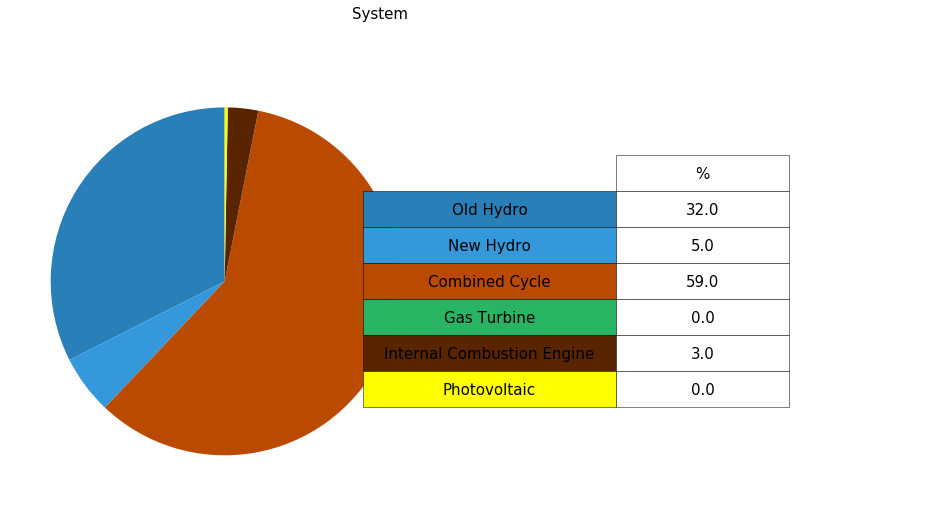
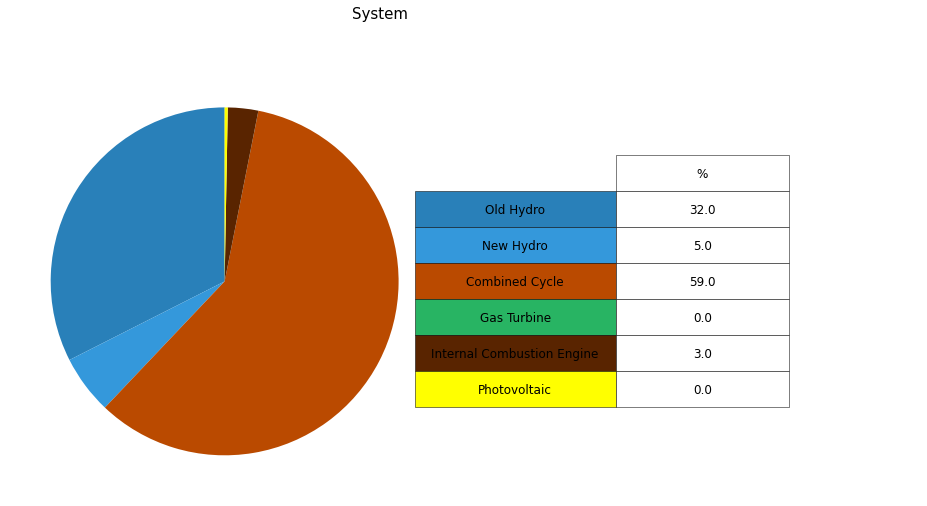
nothing

diff --git a/CIVICS_Ghana/Calliope_Ghana/Ghana-10Nodes/run.py b/CIVICS_Ghana/Calliope_Ghana/Ghana-10Nodes/run.py
@@ -1,0 +1,18 @@
+# -*- coding: utf-8 -*-
+"""
+Created on Mon Oct 19 16:06:55 2020
+
+@author: payam
+"""
+import calliope
+try:
+    calliope.set_log_level('INFO')
+except:
+    calliope.set_log_verbosity('INFO')
+model = calliope.Model('model.yaml')
+model.run()
+#%%
+import cal_graph as CG
+variable=CG.C_Graph(model=model,ex_path=r'Graph_inputs.xlsx',unit='kW')
+#%%
+variable.system_pie(table_font=12)
